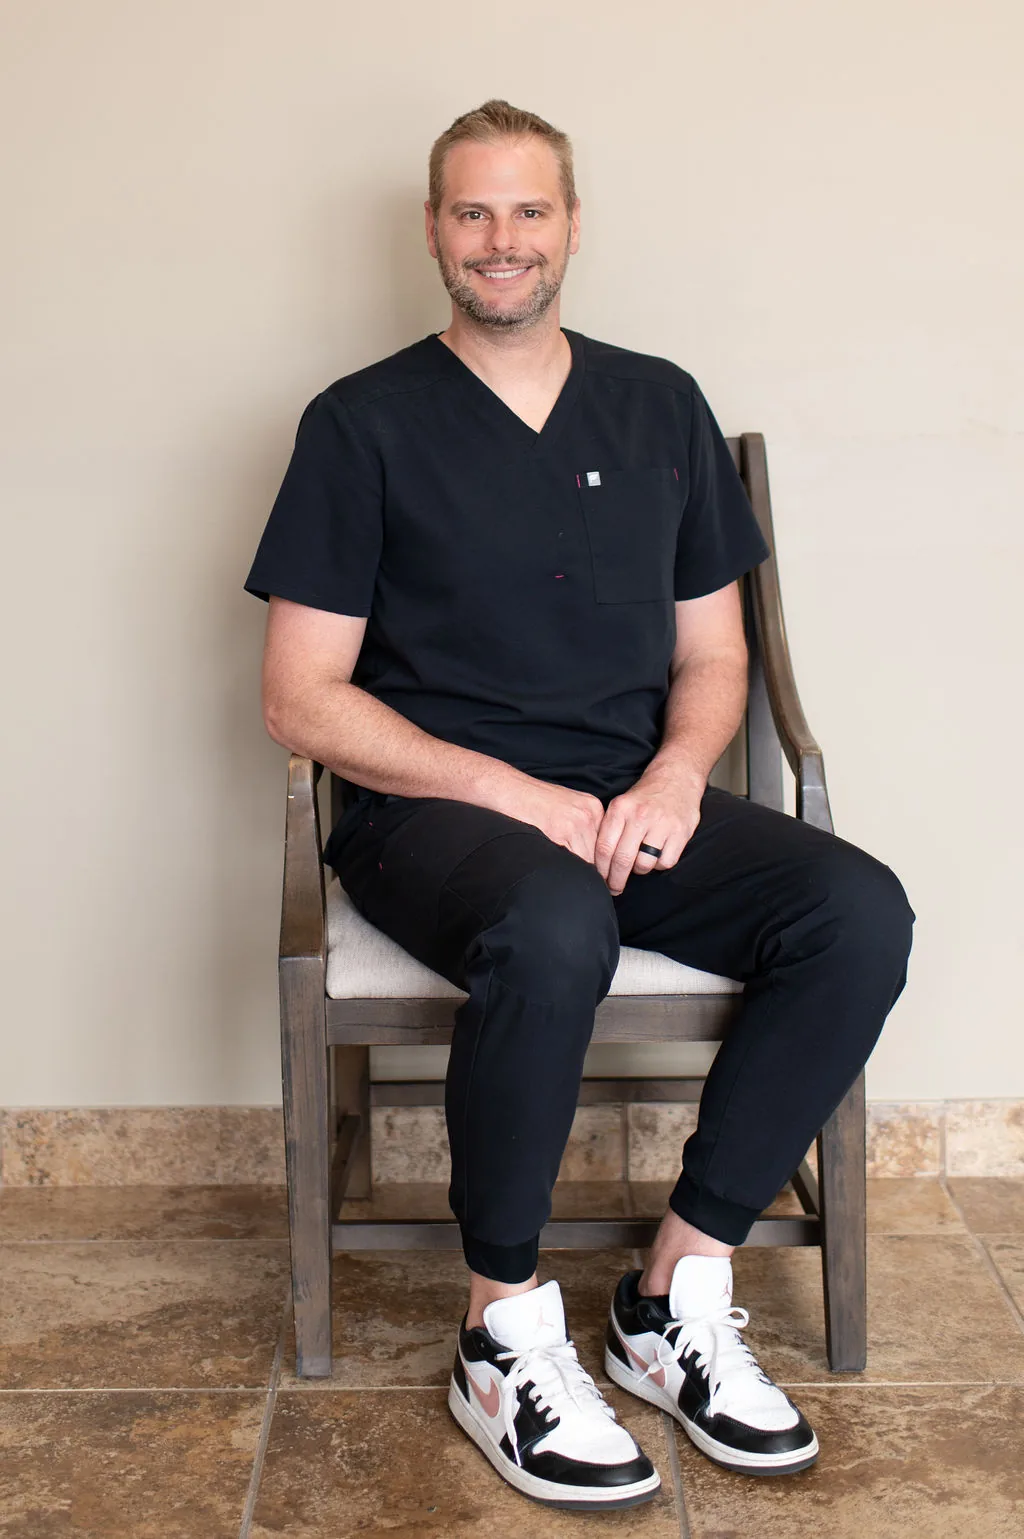
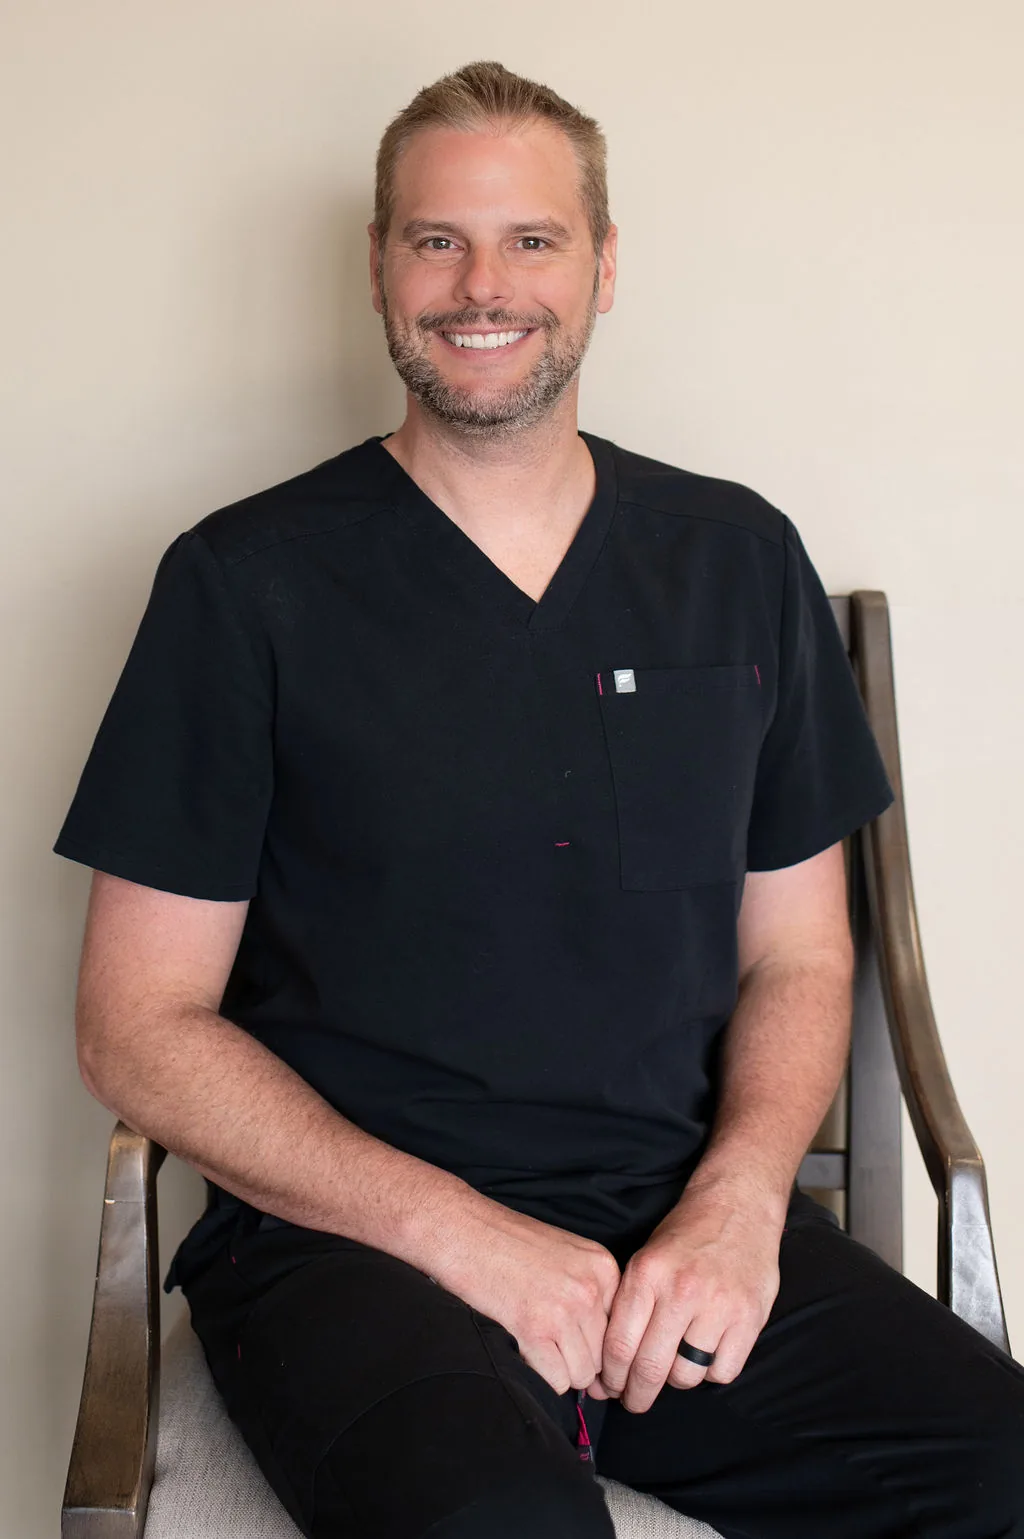
Fix portrait crop bug + add SoftWave/office images
CROP FIX (Bradley reported heads cut off on /about + /dr-brad)
- meet-team.webp: re-converted from #1 (Brad half-body, head in upper third)
  instead of #2 (full body) so landscape containers don't crop the face
- with-staff.webp: re-converted from #19 (LANDSCAPE full team on couch)
  instead of #18 (vertical) so the wide containers on / and
  /chiropractic-care show the whole team naturally
- Added Tailwind object-top to portrait-in-non-portrait containers:
  /dr-brad, /about, / (homepage Brad portrait)

NEW IMAGES from same Pixieset gallery
- service-softwave-therapy.webp (#25 SoftWave machine close-up):
  /softwave-therapy now uses dedicated product photo instead of the
  generic office-exam-bed.webp.
- office-consultation-room.webp (#24): available for future service
  page upgrades (Dr. Brad's actual desk + exam table + diplomas).
- office-waiting-room.webp (#21): branded waiting area for /new-patients
  or /contact when ready to surface.

UNRELATED BUILD UNBLOCKER
- /leave-a-review breadcrumbs used `name` instead of `label`; was failing
  TypeScript build and blocking deploy.

diff --git a/app/page.tsx b/app/page.tsx
@@ -285,7 +285,7 @@ export default function HomePage() {
             <ScrollReveal>
               {/* Photo placeholder */}
               <div className="w-full max-w-[480px] aspect-[3/4] rounded-xl overflow-hidden -mt-10 relative z-[2] shadow-[var(--shadow-lg)] mb-7">
-                <Image src="/images/dr-bradley-krawczyk-about.webp" alt="Dr. Bradley Krawczyk, DC -- Chiropractor in Shelby Township, MI" fill className="object-cover" />
+                <Image src="/images/dr-bradley-krawczyk-about.webp" alt="Dr. Bradley Krawczyk, DC -- Chiropractor in Shelby Township, MI" fill className="object-cover object-top" />
               </div>
               <h3 className="text-[30px] font-extrabold text-teal mt-7 mb-2" style={{ fontFamily: 'var(--font-heading)' }}>Dr. Bradley Krawczyk, D.C.</h3>
               <p className="text-sm text-[#888] mb-6 leading-relaxed">Founder &middot; Michigan State University &middot; Life University 2011 &middot; Macomb County Native &middot; 14+ Years</p>

diff --git a/app/softwave-therapy-shelby-township-mi/page.tsx b/app/softwave-therapy-shelby-township-mi/page.tsx
@@ -93,8 +93,8 @@ export default function SoftWaveTherapyPage() {
               </div>
               <div className="h-[400px] rounded-xl overflow-hidden relative shadow-sm">
                 <Image
-                  src="/images/office-exam-bed.webp"
-                  alt="Softwave therapy treatment room at Back and Body in Shelby Township, MI"
+                  src="/images/services/service-softwave-therapy.webp"
+                  alt="SoftWave Tissue Regeneration therapy device at Back and Body in Shelby Township, MI"
                   fill
                   sizes="(max-width: 768px) 100vw, 40vw"
                   className="object-cover"

diff --git a/app/leave-a-review/page.tsx b/app/leave-a-review/page.tsx
@@ -47,8 +47,8 @@ export default function LeaveAReviewPage() {
         title="Loved your visit? Help other patients find us."
         subtitle="Reviews mentioning your specific story (problem + service + outcome) help patients in Macomb and Oakland County find honest care."
         breadcrumbs={[
-          { name: 'Home', href: '/' },
-          { name: 'Leave a Review' },
+          { label: 'Home', href: '/' },
+          { label: 'Leave a Review' },
         ]}
       />
 

diff --git a/app/dr-brad/page.tsx b/app/dr-brad/page.tsx
@@ -42,7 +42,7 @@ export default function DrBradPage() {
                   alt="Dr. Bradley Krawczyk, DC — founder of Back and Body in Shelby Township, MI"
                   fill
                   sizes="(max-width: 768px) 100vw, 900px"
-                  className="object-cover"
+                  className="object-cover object-top"
                   priority
                 />
               </div>

diff --git a/app/about/page.tsx b/app/about/page.tsx
@@ -46,7 +46,7 @@ export default function AboutPage() {
                 alt="Meet the Back and Body team led by Dr. Bradley Krawczyk in Shelby Township, MI"
                 fill
                 sizes="(max-width: 1024px) 100vw, 40vw"
-                className="object-cover"
+                className="object-cover object-top"
               />
             </div>
           </ScrollReveal>
